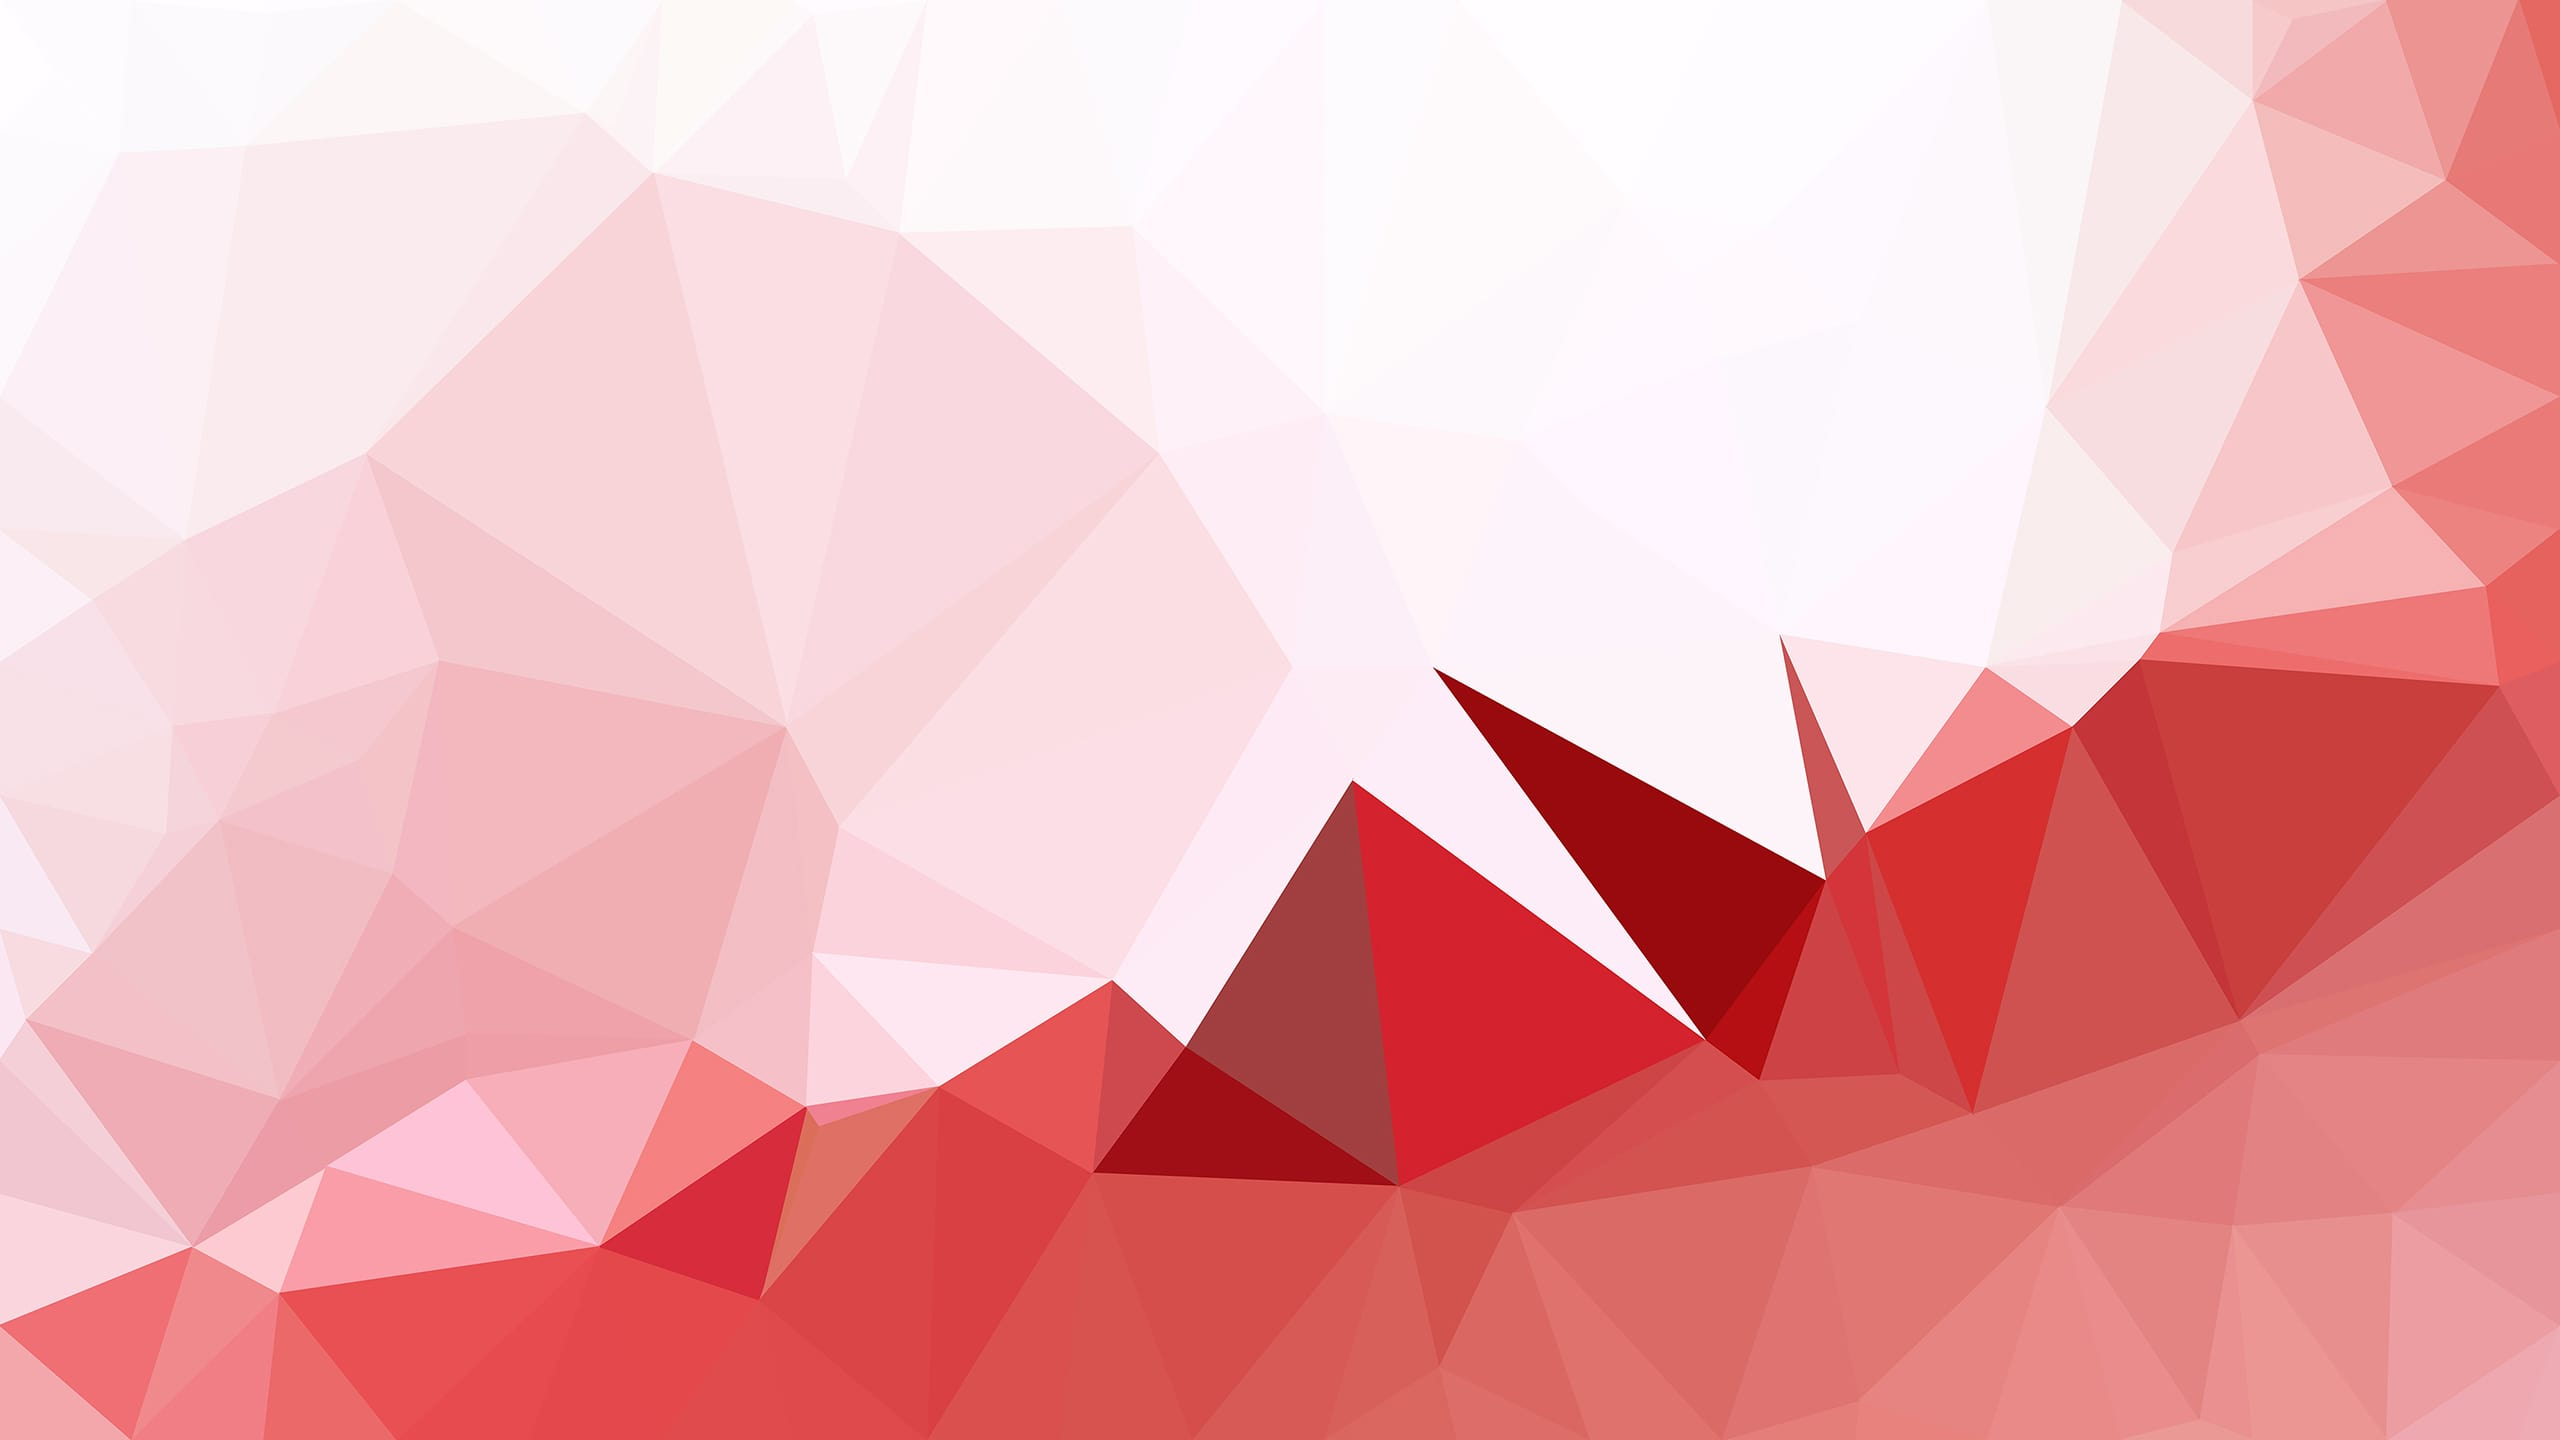
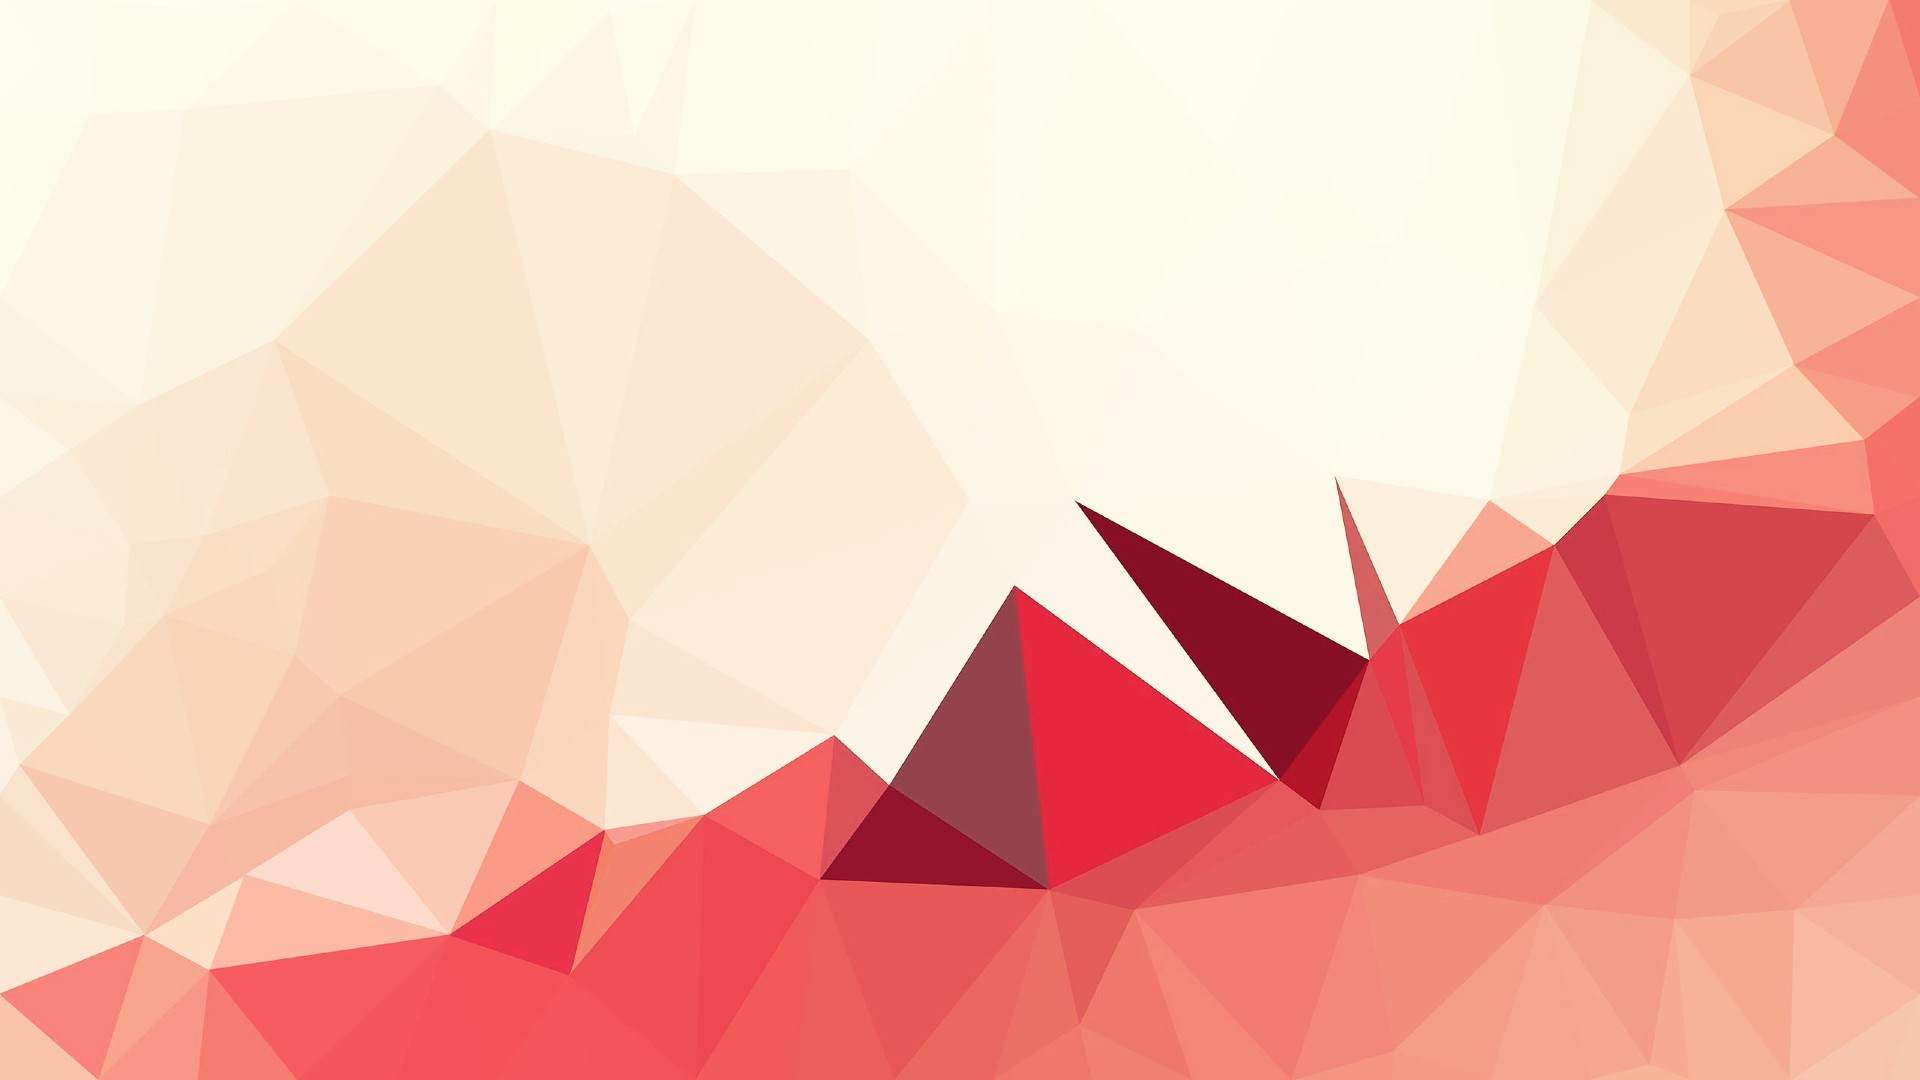
Minor background and CSS changes, made title not clickable on every page

diff --git a/frontend/src/components/PageTitle.js b/frontend/src/components/PageTitle.js
@@ -1,8 +1,15 @@
 import React from 'react';
 
-function PageTitle(){   
+
+function PageTitle(props){   
     return(     
-        <h1 id="title" ><a style={{textDecoration: "none", color: "#f75555"}} href="/home">- Get2Gather -</a></h1>   
+        <h1 id="title" >
+            {
+                props.clickable
+                ? <a style={{textDecoration: "none", color: "#f75555"}} href="/home">- Get2Gather -</a>
+                : "- Get2Gather -"
+            }
+        </h1>   
     );
 };
 

diff --git a/frontend/src/index.css b/frontend/src/index.css
@@ -258,6 +258,7 @@ p .date
 .buttons
 {
     font-size: 20px;
+    padding: 3px;
     margin: 0 auto;
     border-radius: 5px;
     width: 50%;
@@ -291,7 +292,8 @@ p .date
 
 /* Text-Entry Fields CSS */
 input[type="text"],input[type="password"]{
-    font-size: 20px;
+    font-size: 15px;
+    padding: 5px;
     border-radius: 5px;
     text-align: left;
     width: 40%;

diff --git a/frontend/src/pages/FinishPasswordPage.js b/frontend/src/pages/FinishPasswordPage.js
@@ -8,7 +8,8 @@ const FinishPasswordPage = () =>{
     const {passwordId} = useParams();    
     return(        
         <div>            
-            <PageTitle />    
+            <PageTitle clickable={false} />        
+    
             <FinishPassword passwordId={passwordId}/>         
         </div>    
     );

diff --git a/frontend/src/pages/AdminnedGroupsPage.js b/frontend/src/pages/AdminnedGroupsPage.js
@@ -6,7 +6,8 @@ import AdminnedGroups from '../components/AdminnedGroups';
 const AdminnedGroupsPage = () =>{    
     return(      
         <div>        
-            <PageTitle />        
+            <PageTitle clickable={true} />        
+        
             <AdminnedGroups />  
         </div>
     );

diff --git a/frontend/src/pages/FinishRegisterPage.js b/frontend/src/pages/FinishRegisterPage.js
@@ -6,7 +6,8 @@ import PageTitle from '../components/PageTitle';
 const FinishRegisterPage = () =>{    
     return(        
         <div>            
-            <PageTitle />    
+            <PageTitle clickable={false} />        
+    
             <FinishRegister />         
         </div>    
     );

diff --git a/frontend/src/pages/ForgotPasswordPage.js b/frontend/src/pages/ForgotPasswordPage.js
@@ -6,7 +6,8 @@ import PageTitle from '../components/PageTitle';
 const ForgotPasswordPage = () =>{    
     return(        
         <div>            
-            <PageTitle />    
+            <PageTitle clickable={false} />        
+    
             <ForgotPassword />         
         </div>    
     );

diff --git a/frontend/src/pages/VerifyAccountPage.js b/frontend/src/pages/VerifyAccountPage.js
@@ -8,7 +8,8 @@ const VerifyAccountPage = () =>{
     const {verifyId} = useParams(); 
     return(        
         <div>            
-            <PageTitle />    
+            <PageTitle clickable={true} />        
+    
             <VerifyAccount verifyId={verifyId}/>         
         </div>    
     );

diff --git a/frontend/src/pages/LoginPage.js b/frontend/src/pages/LoginPage.js
@@ -6,10 +6,12 @@ import Login from '../components/Login';
 const LoginPage = () =>{    
     return(      
         <div>        
-            <PageTitle />        
+            <PageTitle clickable={false} />        
             <Login />  
         </div>
     );
 };
+
+
 
 export default LoginPage;

diff --git a/frontend/src/pages/HostedEventsPage.js b/frontend/src/pages/HostedEventsPage.js
@@ -6,7 +6,8 @@ import HostedEvents from '../components/HostedEvents';
 const HostedEventsPage = () =>{    
     return(      
         <div>        
-            <PageTitle />        
+            <PageTitle clickable={true} />        
+        
             <HostedEvents />  
         </div>
     );

diff --git a/frontend/src/pages/JoinedEventsPage.js b/frontend/src/pages/JoinedEventsPage.js
@@ -6,7 +6,8 @@ import JoinedEvents from '../components/JoinedEvents';
 const JoinedEventsPage = () =>{    
     return(      
         <div>        
-            <PageTitle />        
+            <PageTitle clickable={true} />        
+        
             <JoinedEvents />  
         </div>
     );

diff --git a/frontend/src/pages/JoinedGroupsPage.js b/frontend/src/pages/JoinedGroupsPage.js
@@ -6,7 +6,8 @@ import JoinedGroups from '../components/JoinedGroups';
 const JoinedGroupsPage = () =>{    
     return(      
         <div>        
-            <PageTitle />        
+            <PageTitle clickable={true} />        
+        
             <JoinedGroups />  
         </div>
     );

diff --git a/frontend/src/pages/MakeEventPage.js b/frontend/src/pages/MakeEventPage.js
@@ -6,7 +6,8 @@ import EventMakeUI from '../components/EventMakeUI';
 const MakeEventPage = () =>{    
     return(      
         <div>        
-            <PageTitle />        
+            <PageTitle clickable={true} />        
+        
             <EventMakeUI />  
         </div>
     );
